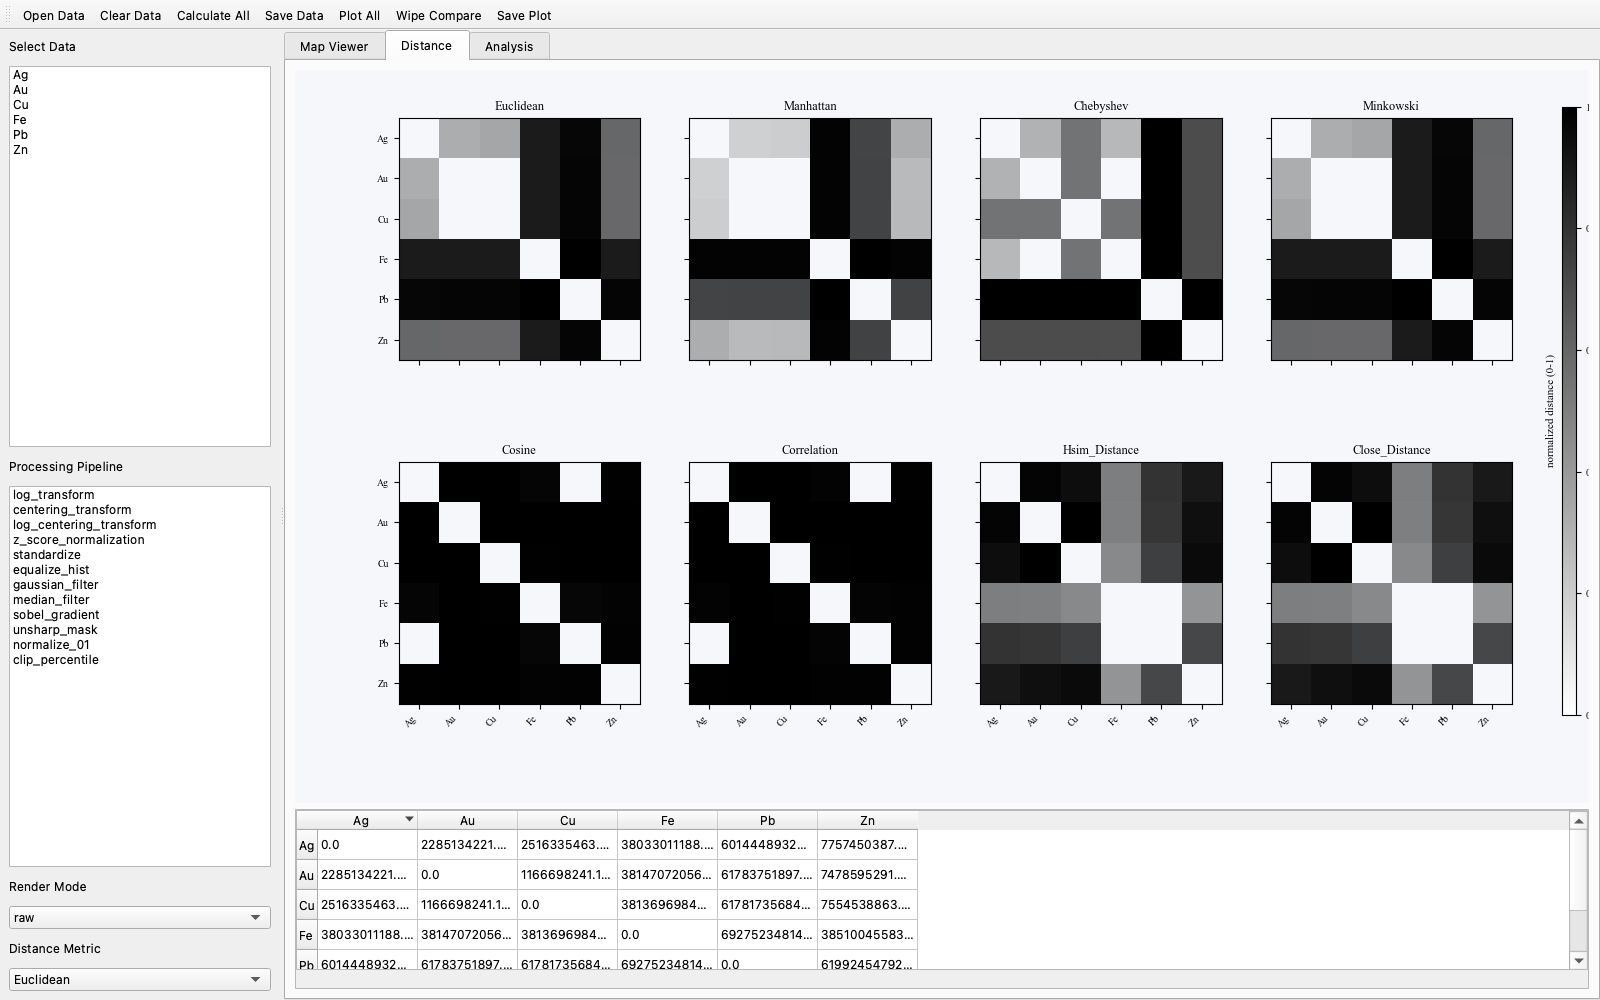
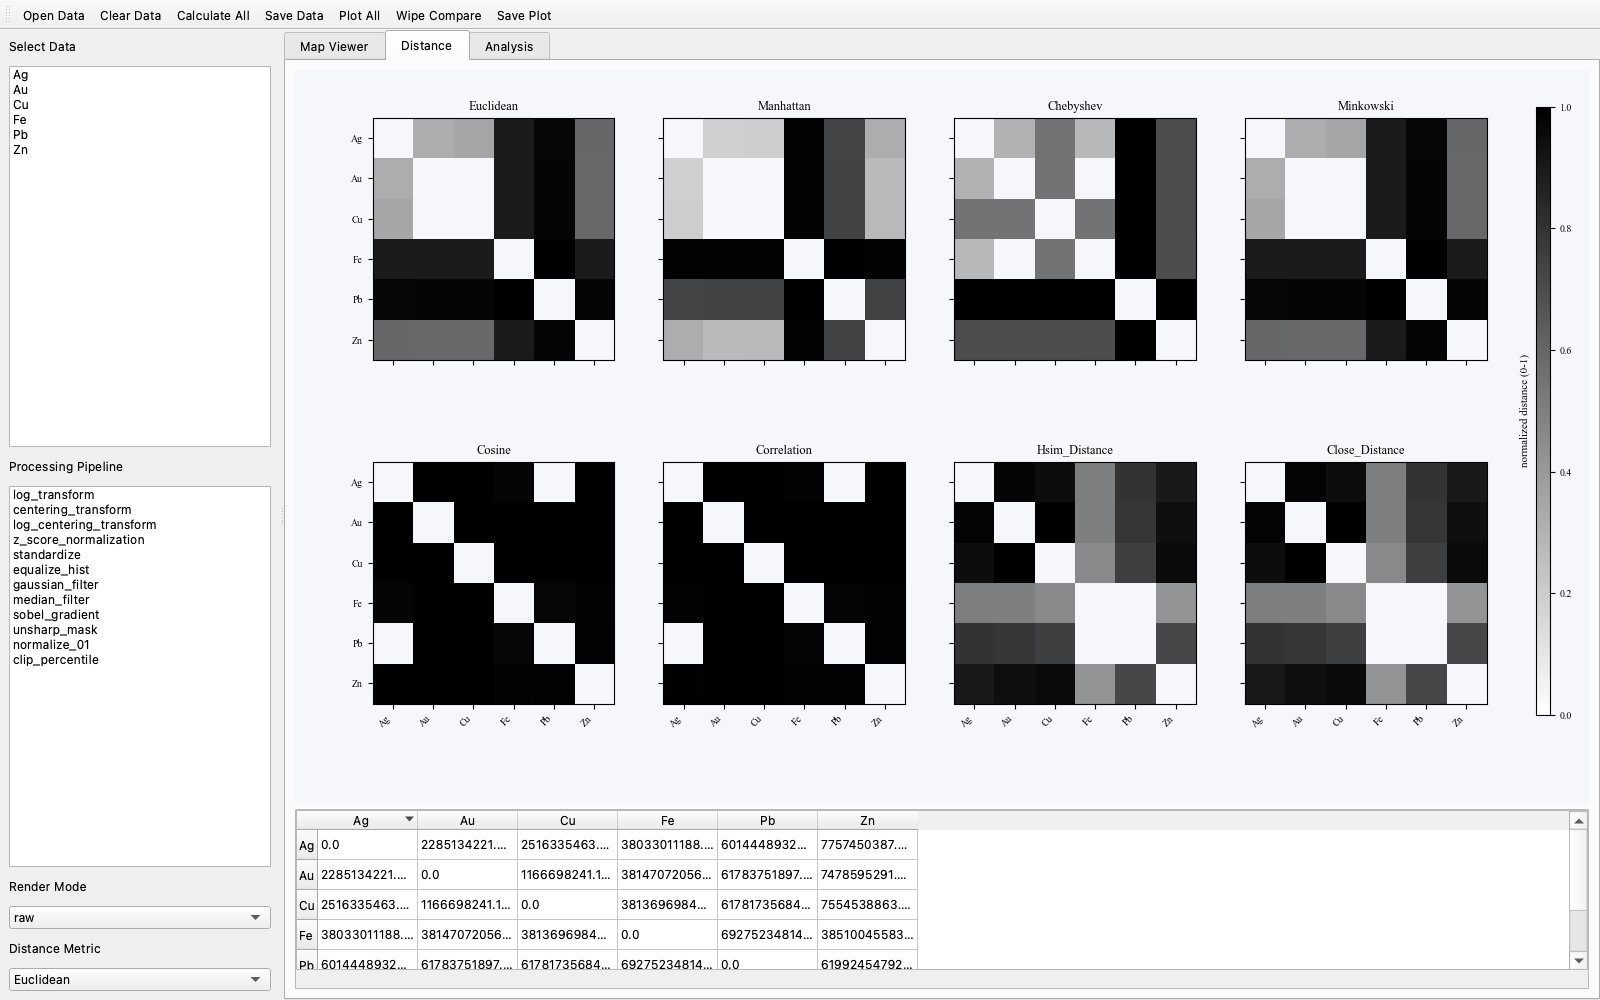
v1.2.8: distance grid shifted left to fix colorbar label clipping

Changed region(s): [[0.2188, 0.093, 1.0, 0.713]]

diff --git a/cpsvisualizer/src/cpsvisualizer/app.py b/cpsvisualizer/src/cpsvisualizer/app.py
@@ -734,7 +734,7 @@ class CPSVisualizer(QMainWindow):
         gs = GridSpec(nrows, ncols + 1, figure=fig,
                       width_ratios=[1, 1, 1, 1, 0.06],
                       wspace=0.25, hspace=0.30,
-                      left=0.08, right=0.99, top=0.95, bottom=0.12)
+                      left=0.06, right=0.97, top=0.95, bottom=0.12)
         images = []
         for pos, mname in enumerate(metrics):
             if mname not in self.result_df_dict:
